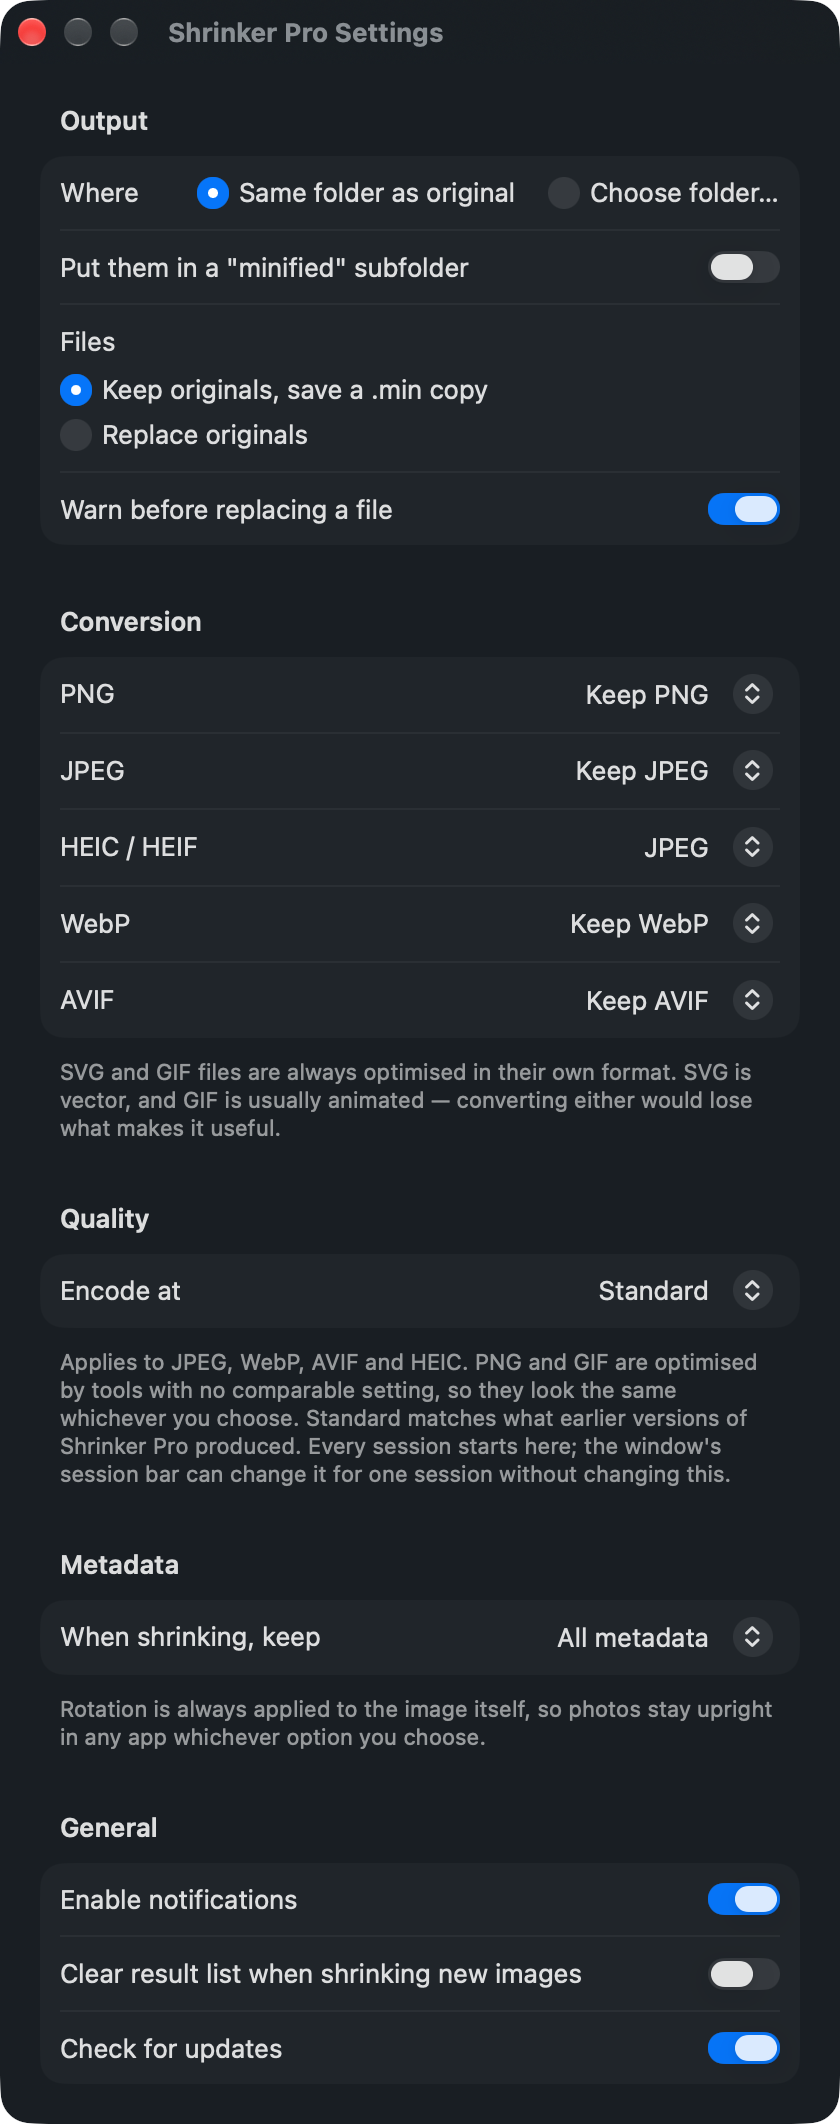
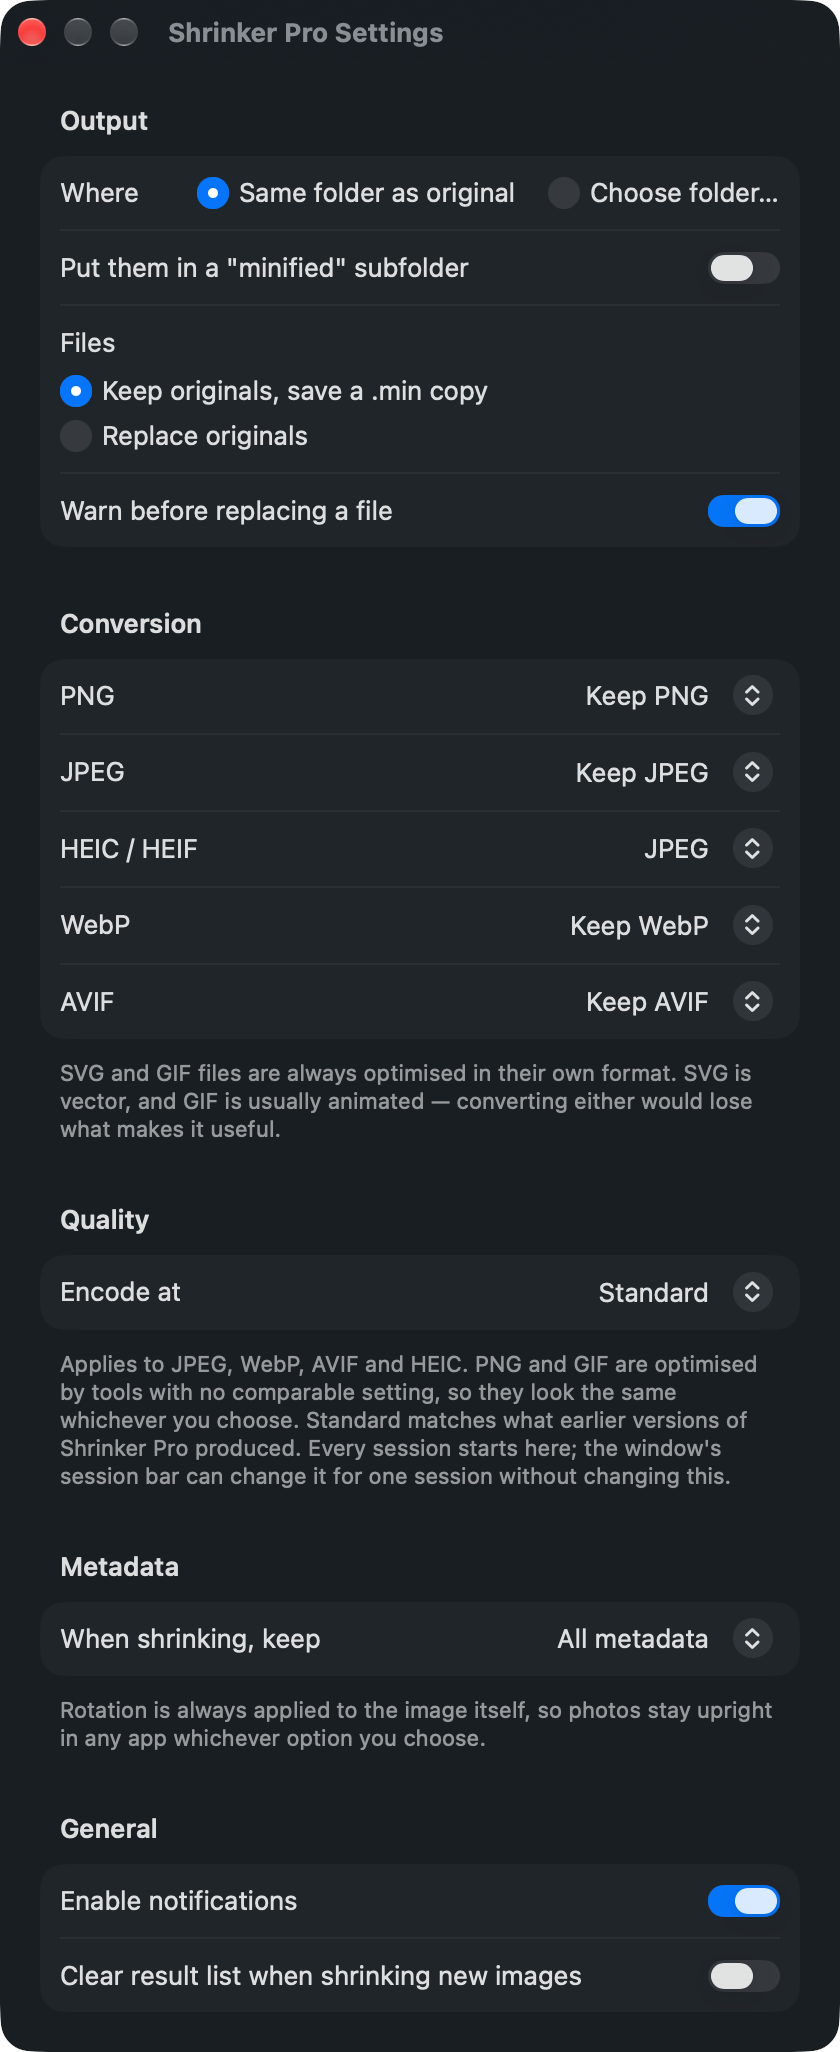
Release 1.3.1
MARKETING_VERSION 1.3.1 and CURRENT_PROJECT_VERSION 8. Both are
load-bearing: ShrinkerVersion is a hand-kept copy of the first, pinned
by CommandLineOptionsTests and again by release.sh before anything is
signed, and Sparkle compares the second, so shipping without bumping it
would offer existing installs nothing.

The CLI has no functional change in this release. It is rebuilt,
re-notarized and republished at 1.3.1 anyway, because it is built from
this tree and its reported version has to match.

Settings screenshots recaptured — the panel is one row shorter without
the update toggle.

appcast.xml regenerated for the published DMG (3,466,312 bytes),
carrying docs/release-notes/1.3.1.md as the item description.

Claude-Session: https://claude.ai/code/session_01TGV5BsgJUUFie3qMz5UN8a

diff --git a/Sources/ShrinkerPro/Core/ShrinkerVersion.swift b/Sources/ShrinkerPro/Core/ShrinkerVersion.swift
@@ -16,5 +16,5 @@ import Foundation
 /// something other than good intentions keeping it correct.
 enum ShrinkerVersion {
     /// Must equal `MARKETING_VERSION` in project.yml, which is asserted.
-    static let current = "1.3.0"
+    static let current = "1.3.1"
 }

diff --git a/CHANGELOG.md b/CHANGELOG.md
@@ -4,6 +4,39 @@ Notable changes per release. Downloads and signed artifacts are on the
 [releases page](https://github.com/jeso87/ShrinkerPro/releases); existing
 installs are offered updates automatically by Sparkle.
 
+## 1.3.1 — 2026-09-17
+
+### Changed
+
+**Settings no longer offers a choice that does nothing.** The Output section's
+second choice decides whether `.min` is added to the filename — but it was
+labelled "Keep originals, save a .min copy" and "Replace originals", which is
+only what it means when the shrunken file lands in the original's own folder.
+Send output to a chosen folder or a "minified" subfolder and the original is
+untouchable either way, so the panel was offering to replace files it could
+not reach.
+
+It now says what it does. With output going elsewhere the row is headed
+**Filenames** and reads *Add .min — photo.min.png* / *Leave as is —
+photo.png*. In the one arrangement where the suffix really is all that stands
+between you and an overwritten file, the wording is unchanged, and so is the
+warning underneath it.
+
+Nothing about where your files go, or what they are called, has changed — this
+is what the panel says, not what it does.
+
+**Shrinker Pro now always checks for updates, once a day.** The "Check for
+updates" toggle is gone from Settings, including for anyone who had switched
+it off.
+
+This app is open source and free, and most releases exist because somebody
+asked for the thing in them. An install that never hears about those is the
+failure case, not the private one.
+
+Checking is not installing. A new version is still something you are told
+about and agree to; nothing downloads or replaces itself behind you, and
+**Check for Updates…** in the app menu still works the way it always has.
+
 ## 1.3.0 — 2026-09-16
 
 ### Added

diff --git a/docs/release-notes/1.3.1.md b/docs/release-notes/1.3.1.md
@@ -1,0 +1,5 @@
+**Settings says what it actually does.** The choice about `.min` used to read "Keep originals, save a .min copy" or "Replace originals" no matter where your files were going. If you send them to another folder, or to a "minified" subfolder, nothing of yours can be replaced — so it now simply asks whether to add `.min`, and shows you the filename either way. Where your files go, and what they are called, has not changed.
+
+**Shrinker Pro now checks for updates once a day, and the setting for it is gone.** This app is free and open source, and most releases are here because somebody asked for what is in them — so an install that never hears about a new version is the thing worth fixing.
+
+Checking is not installing. You are still told about a new version and still decide whether to take it, and **Check for Updates…** in the menu works as before.
